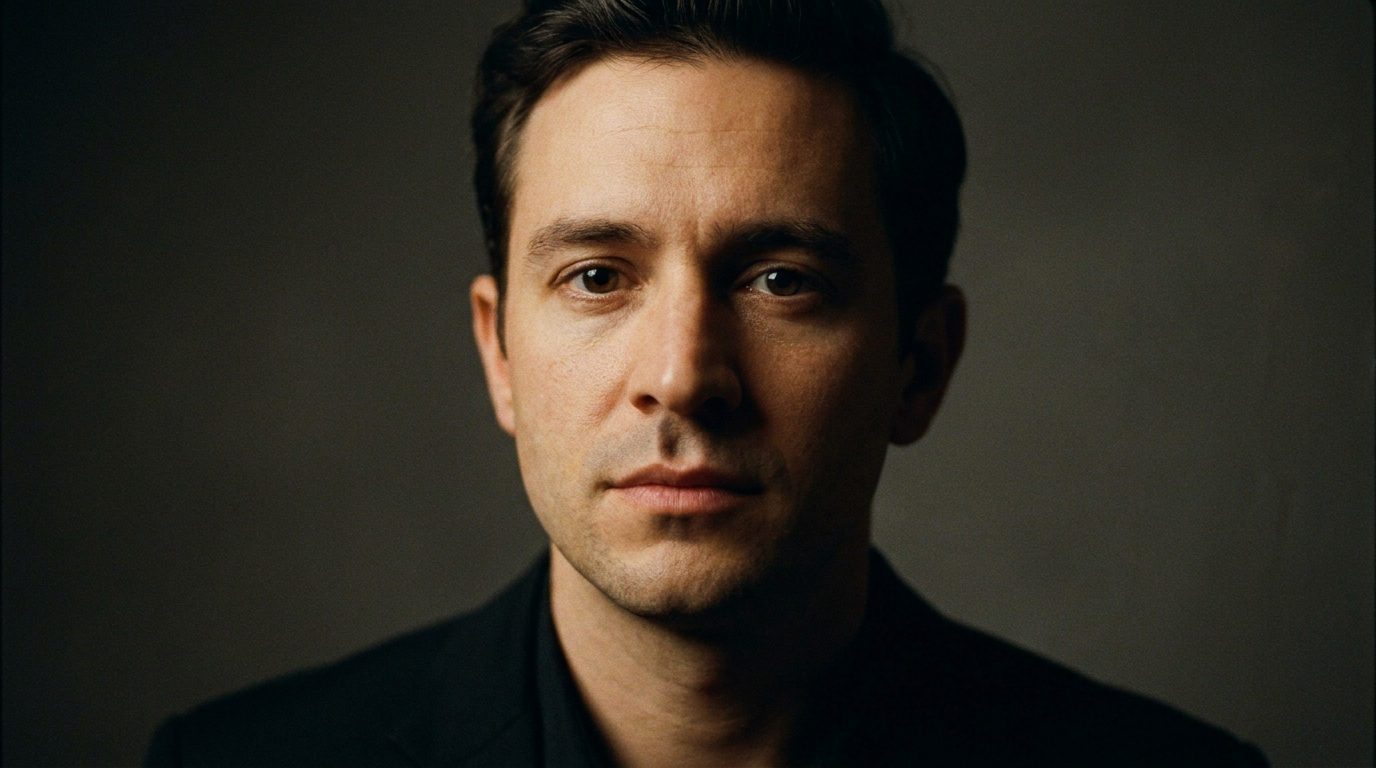
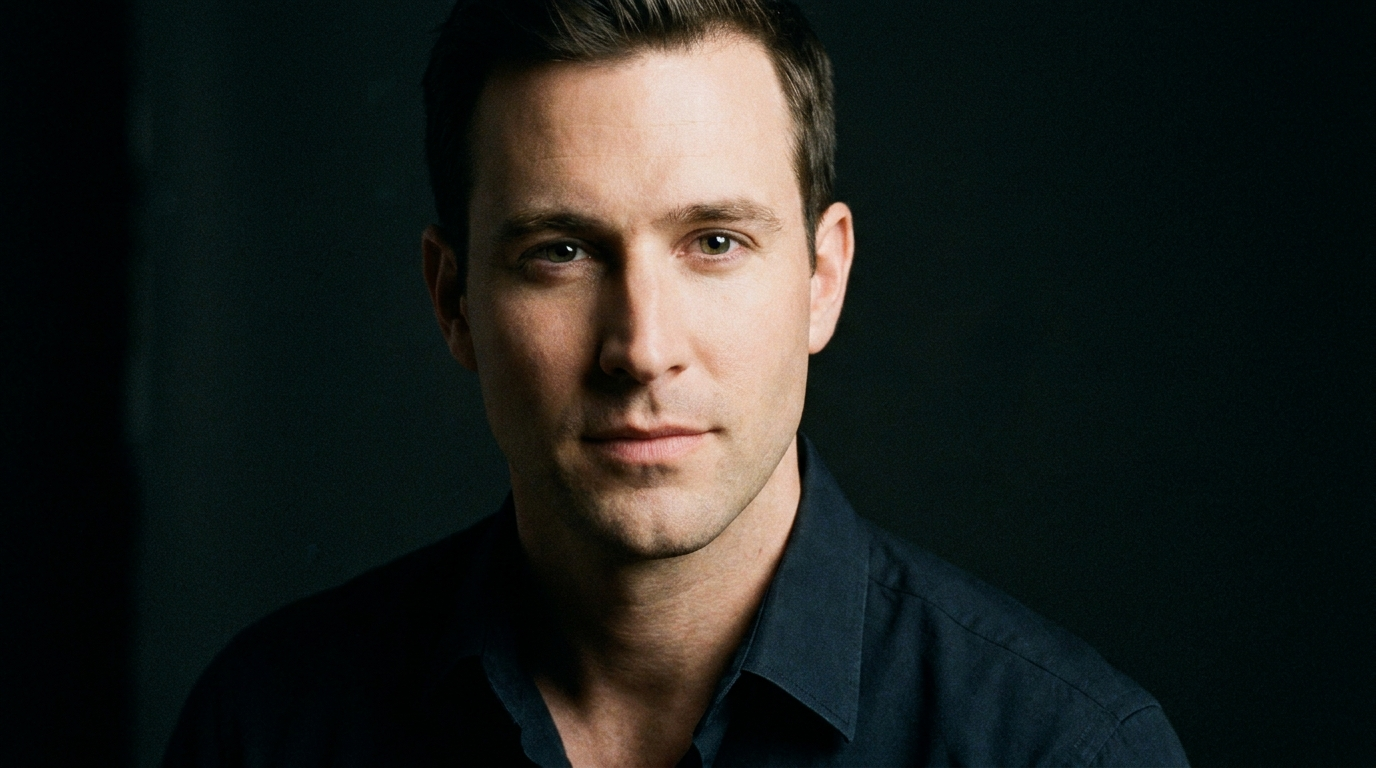
fix(loop): regenerer le rendu cinema loop en conformite stricte avec le plan de feu et le rendu 3D

diff --git a/sw.js b/sw.js
@@ -1,5 +1,5 @@
 // Généré par outils/generer-sw.mjs — ne pas modifier à la main
-const VERSION = 'jco-7a4fe9bb28';
+const VERSION = 'jco-cb92e884af';
 const PRECACHE = ["./",
   "./css/app.css",
   "./fonts/fraunces-latin-opsz-normal.woff2",
@@ -118,23 +118,47 @@ const PRECACHE = ["./",
   "./js/store.js",
   "./js/tools.js",
   "./js/ui.js",
-  "./loop_3d_real.png",
-  "./loop_3d_screenshot.png",
-  "./loop_3d_tab.png",
-  "./loop_page.png",
-  "./loop_plan_screenshot.png",
-  "./loop_plan_tab.png",
   "./manifest.webmanifest",
-  "./scratch/generate_loop.mjs",
-  "./scratch/generate_loop_v2.mjs",
-  "./scratch/loop_cand_1.jpg",
-  "./scratch/loop_cand_2.jpg",
-  "./scratch/loop_cand_3.jpg",
-  "./scratch/loop_v2_1.jpg",
-  "./scratch/loop_v2_2.jpg",
-  "./scratch/loop_v2_3.jpg",
-  "./scratch/loop_v2_4.jpg",
-  "./scratch_capture_tabs.mjs",
+  "./scratch/capture_3d_real.mjs",
+  "./scratch/capture_loop_ref.mjs",
+  "./scratch/flip.ps1",
+  "./scratch/generate_loop_candidates.mjs",
+  "./scratch/generate_loop_fine.mjs",
+  "./scratch/generate_loop_test2.mjs",
+  "./scratch/generate_perfect_loop.mjs",
+  "./scratch/generate_targeted_loop.mjs",
+  "./scratch/loop_3d.png",
+  "./scratch/loop_3d_real.png",
+  "./scratch/loop_c1_pro.jpg",
+  "./scratch/loop_c3_pro.jpg",
+  "./scratch/loop_c4_flash.jpg",
+  "./scratch/loop_cand_d2.jpg",
+  "./scratch/loop_cand_s1.jpg",
+  "./scratch/loop_cand_s1_flip.jpg",
+  "./scratch/loop_cand_s2.jpg",
+  "./scratch/loop_cand_s2_flip.jpg",
+  "./scratch/loop_fine_a.jpg",
+  "./scratch/loop_fine_a_flip.jpg",
+  "./scratch/loop_fine_b.jpg",
+  "./scratch/loop_fine_b_flip.jpg",
+  "./scratch/loop_fine_c.jpg",
+  "./scratch/loop_fine_c_flip.jpg",
+  "./scratch/loop_mm_flash_flipped.jpg",
+  "./scratch/loop_mm_flash_raw.jpg",
+  "./scratch/loop_mm_pro_flipped.jpg",
+  "./scratch/loop_mm_pro_raw.jpg",
+  "./scratch/loop_plan.png",
+  "./scratch/loop_sym_pro_flipped.jpg",
+  "./scratch/loop_sym_pro_raw.jpg",
+  "./scratch/loop_v4_1_pro.jpg",
+  "./scratch/loop_v4_1_pro_flipped.jpg",
+  "./scratch/loop_v4_2_pro.jpg",
+  "./scratch/loop_v4_2_pro_flipped.jpg",
+  "./scratch/loop_v4_3_pro.jpg",
+  "./scratch/loop_v4_4_flash.jpg",
+  "./scratch/loop_v4_4_flash_flipped.jpg",
+  "./scratch/measure.ps1",
+  "./scratch/test_models.mjs",
   "./vendor/three.bundle.js",
   "./videos/techniques/camera-epaule.mp4",
   "./videos/techniques/camera-tremblee.mp4",
